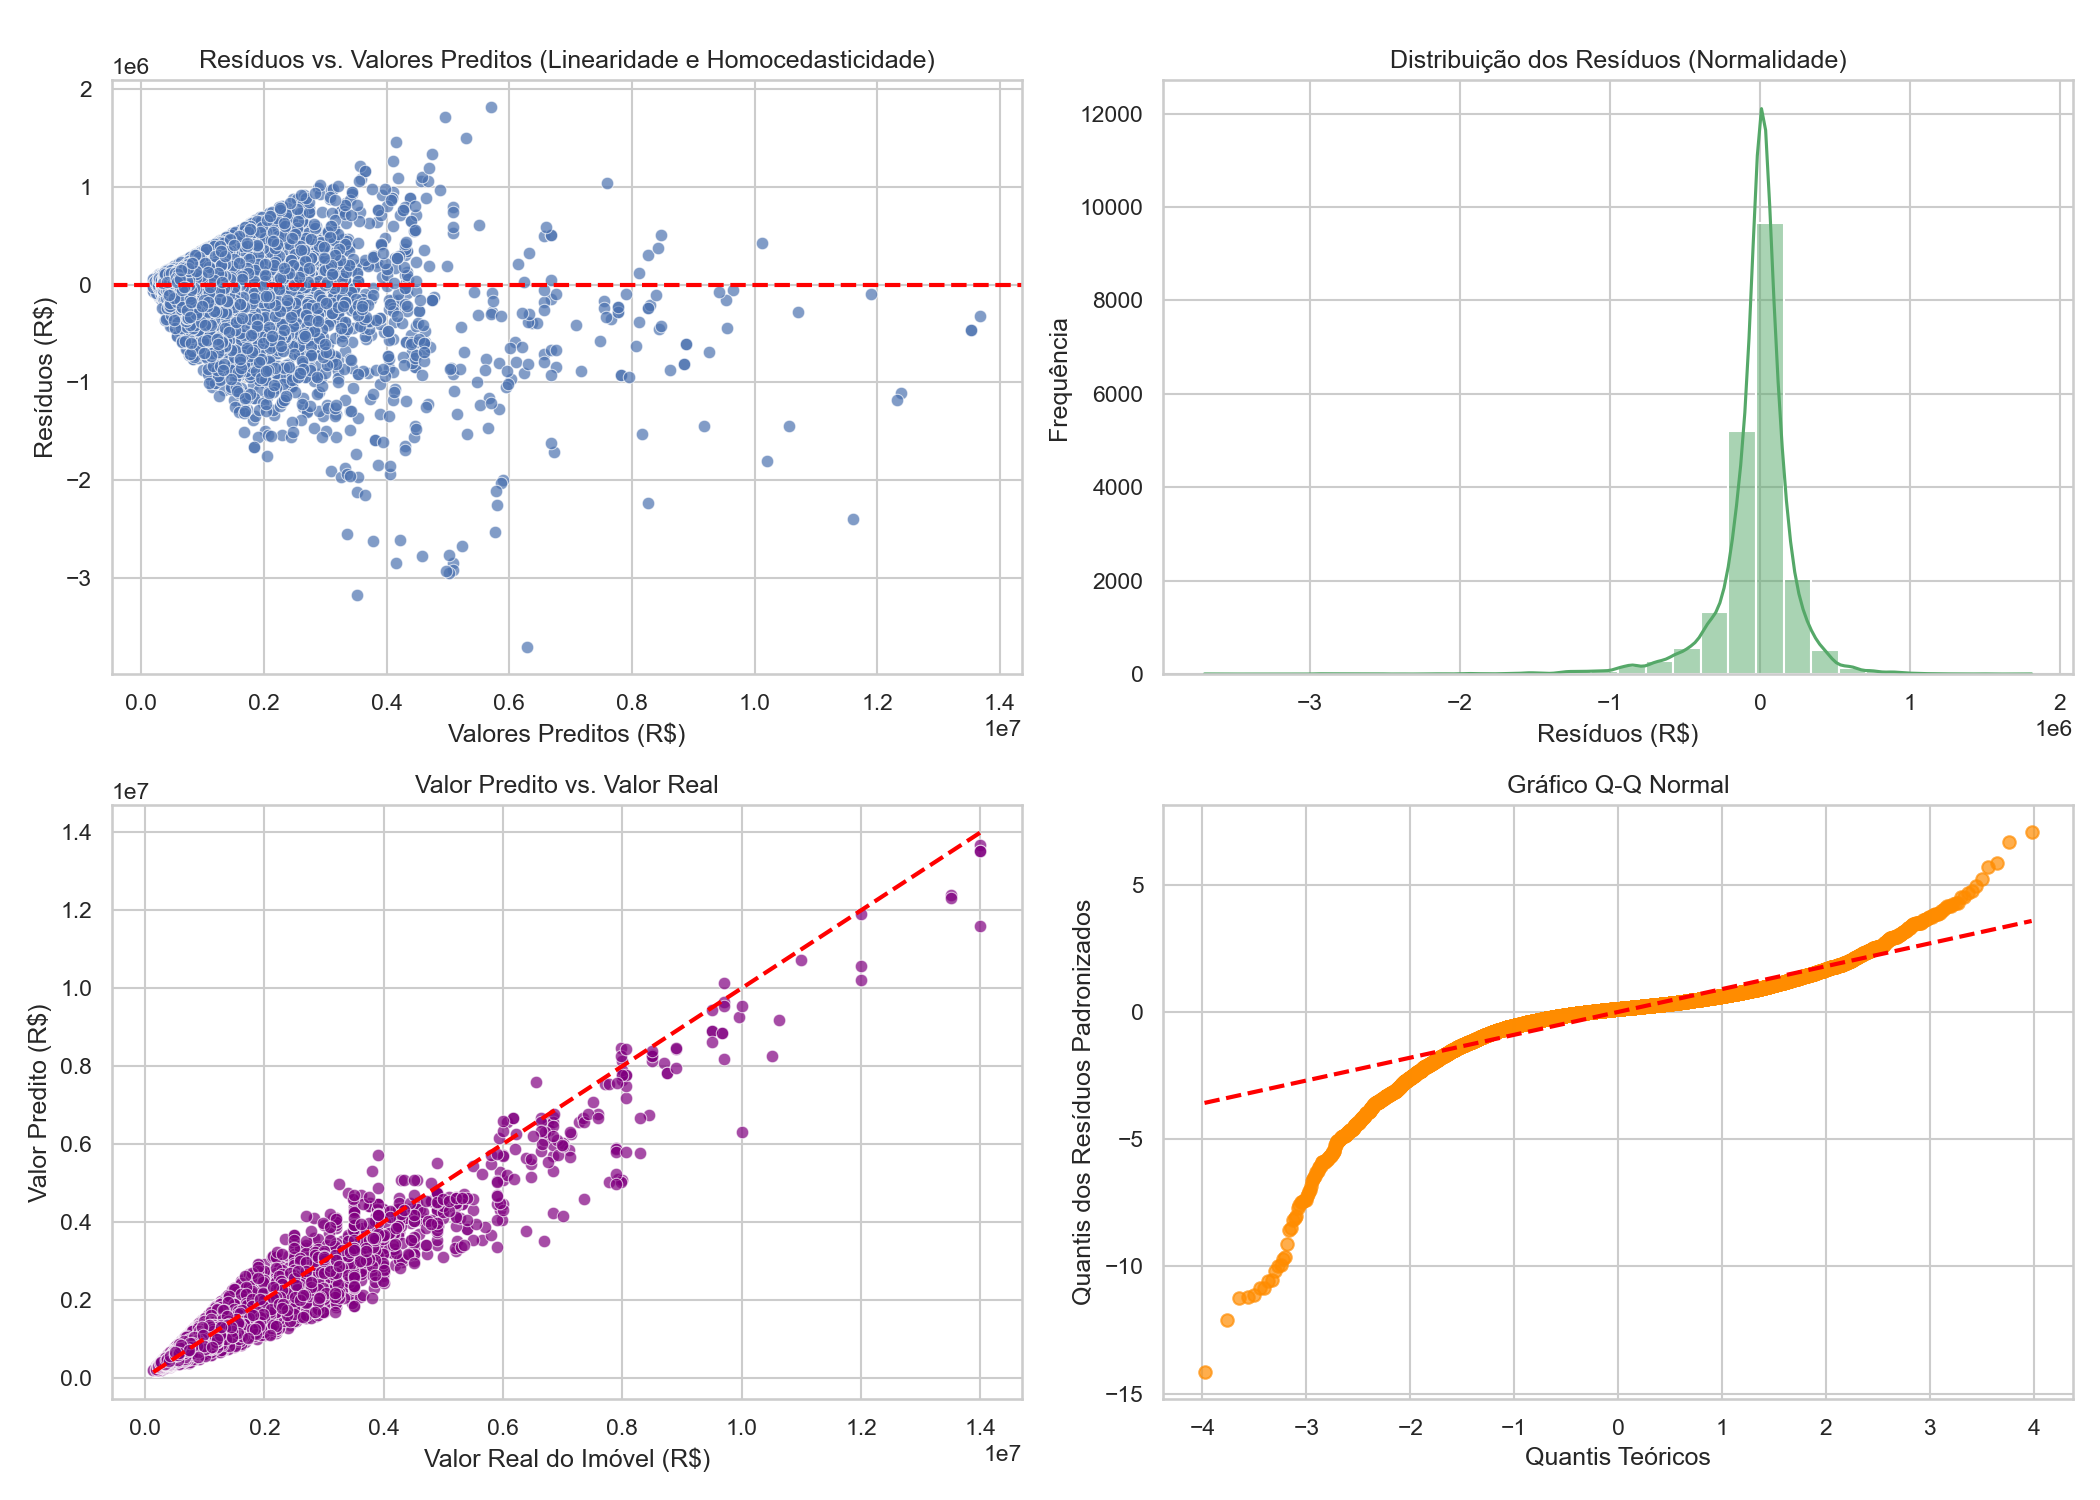
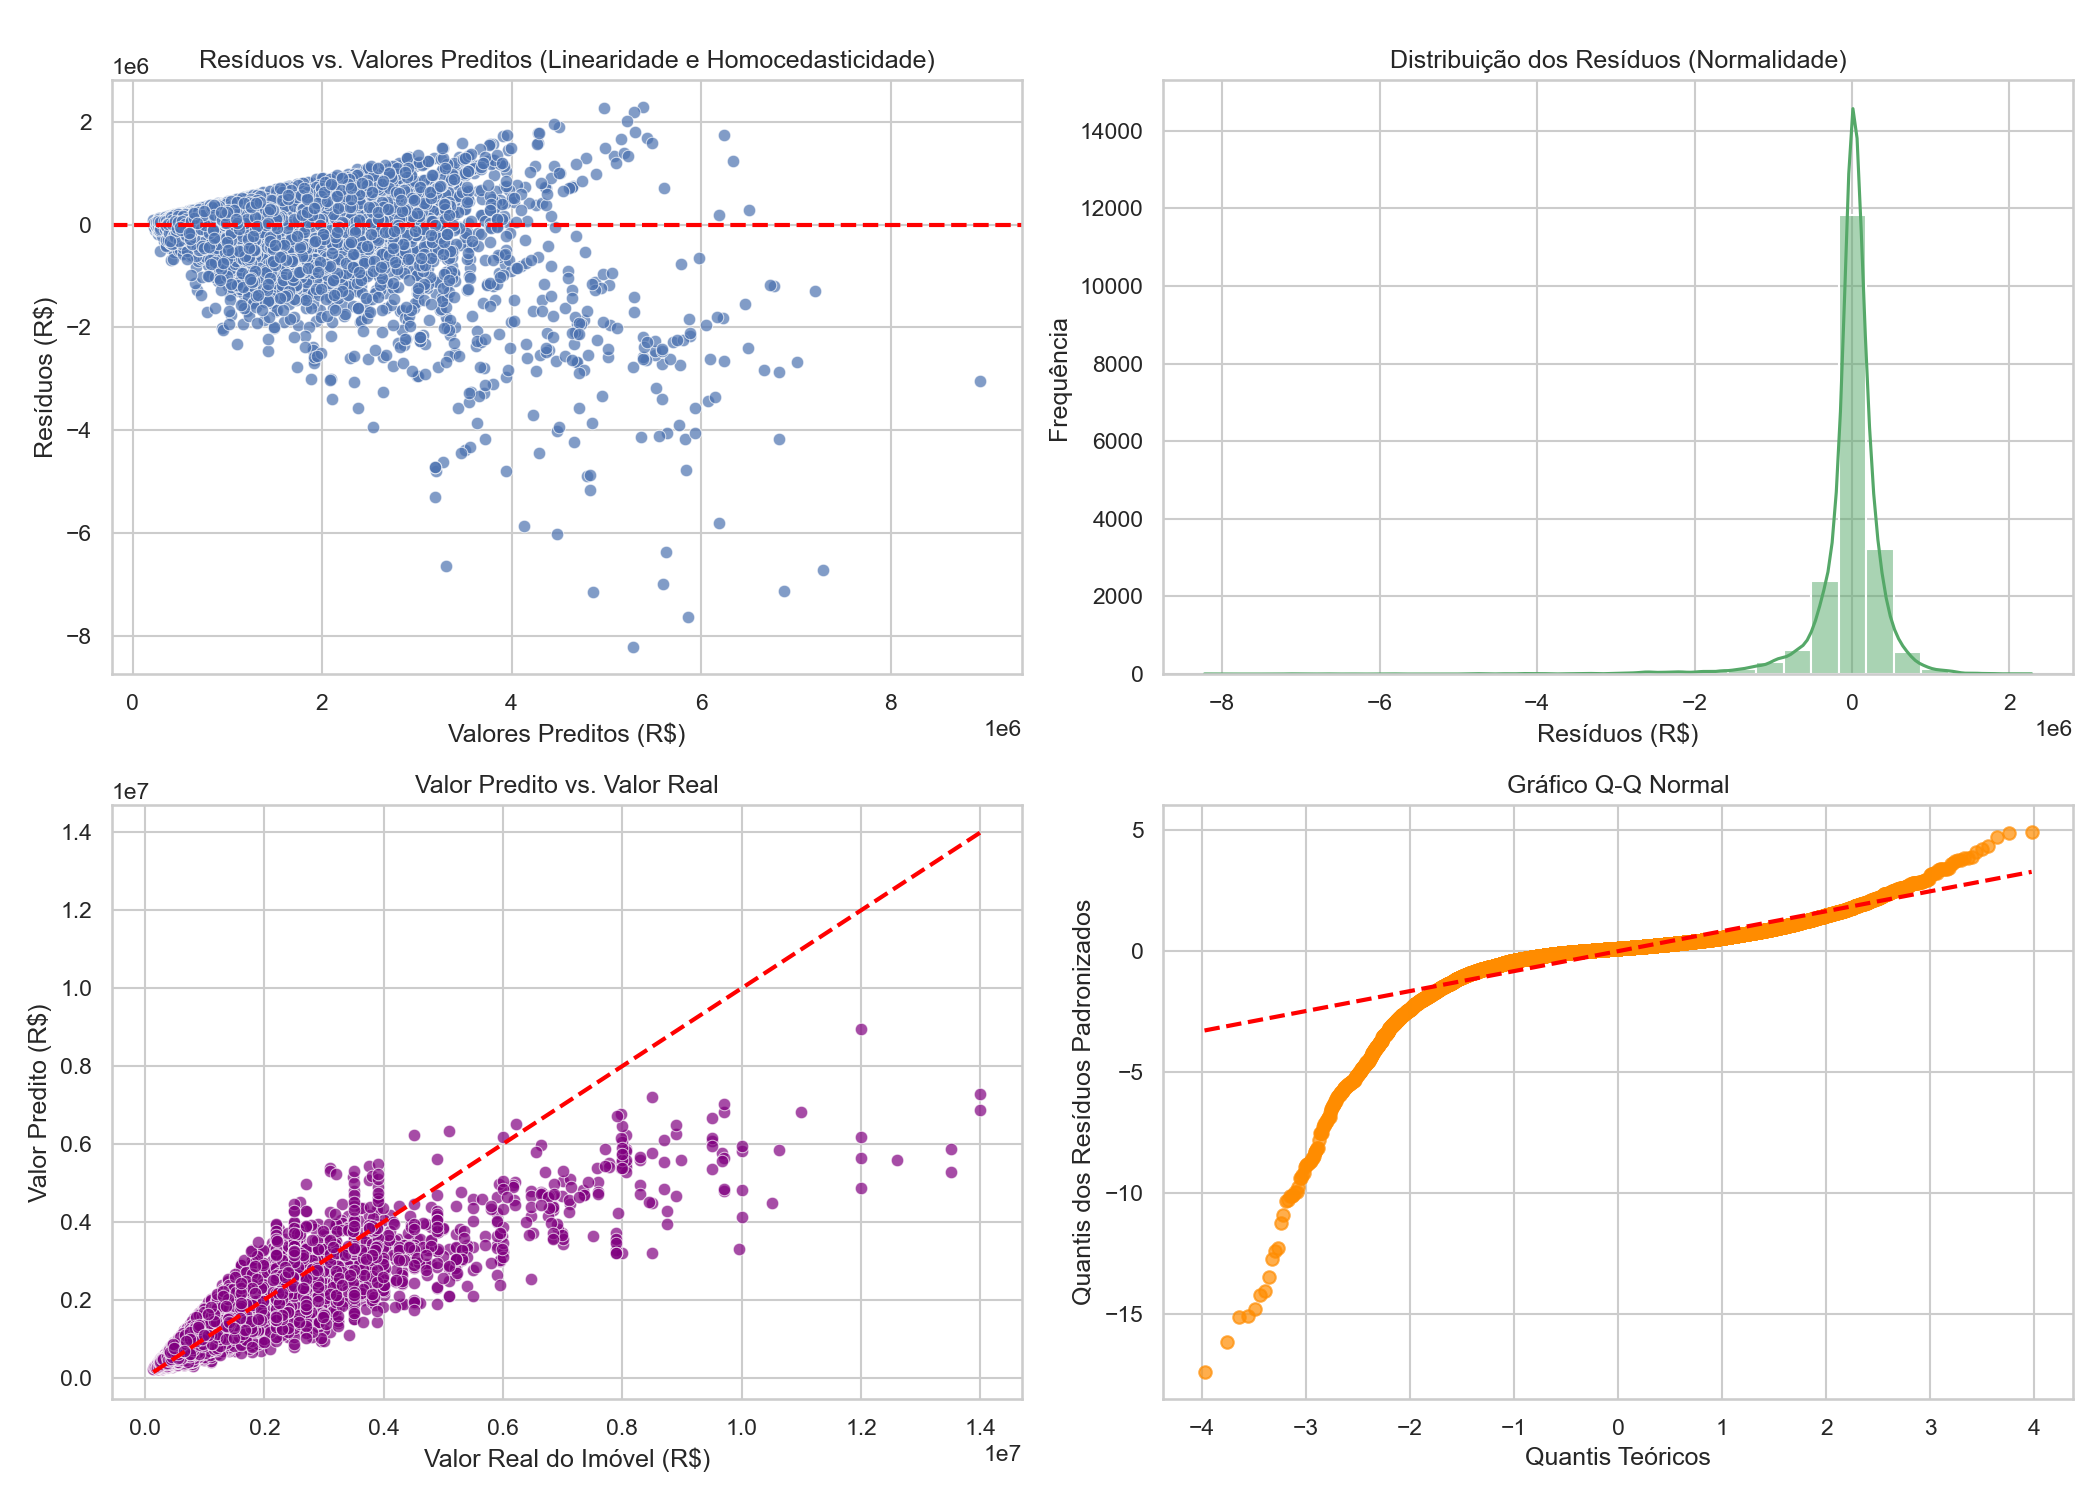
Incluindo topics aos preditores

diff --git a/codigos_rodando/joinville/joinville_melhores_configuraoes_modelo.py b/codigos_rodando/joinville/joinville_melhores_configuraoes_modelo.py
@@ -28,11 +28,12 @@ MES_REF = os.getenv("MES_REF", datetime.now().strftime("%Y-%m"))
 N_TRIALS_OPTUNA = int(os.getenv("N_TRIALS_OPTUNA", "15"))
 MAX_CONCURRENT = int(os.getenv("MAX_CONCURRENT", "20"))
 TARGET = "valor_imovel"
-INCLUIR_TOPICOS = os.getenv("INCLUIR_TOPICOS", "false").lower() == "true"
+INCLUIR_TOPICOS = os.getenv("INCLUIR_TOPICOS", "True").lower() == "true"
 
 PASTA_DADOS = Path(__file__).parent.parent.parent / 'dados' / cidade
 
 train_path = PASTA_DADOS / f"{cidade}_train_{MES_REF}.parquet"
+
 test_path  = PASTA_DADOS / f"{cidade}_test_{MES_REF}.parquet"
 
 if train_path.exists() and test_path.exists():

diff --git a/codigos_rodando/joinville/joinville_otimizando_melhores_modelos.py b/codigos_rodando/joinville/joinville_otimizando_melhores_modelos.py
@@ -29,7 +29,7 @@ SELECTION_MODE = os.getenv("SELECTION_MODE", "combinado")
 TOP_K = int(os.getenv("TOP_K", "6"))
 TOP_K_MODELO = int(os.getenv("TOP_K_MODELO", "1"))
 INCLUIR_MLP = os.getenv("INCLUIR_MLP", "true").lower() == "true"
-INCLUIR_TOPICOS = os.getenv("INCLUIR_TOPICOS", "false").lower() == "true"
+INCLUIR_TOPICOS = os.getenv("INCLUIR_TOPICOS", "True").lower() == "true"
 
 PASTA_DADOS = Path(__file__).parent.parent.parent / 'dados' / cidade
 
